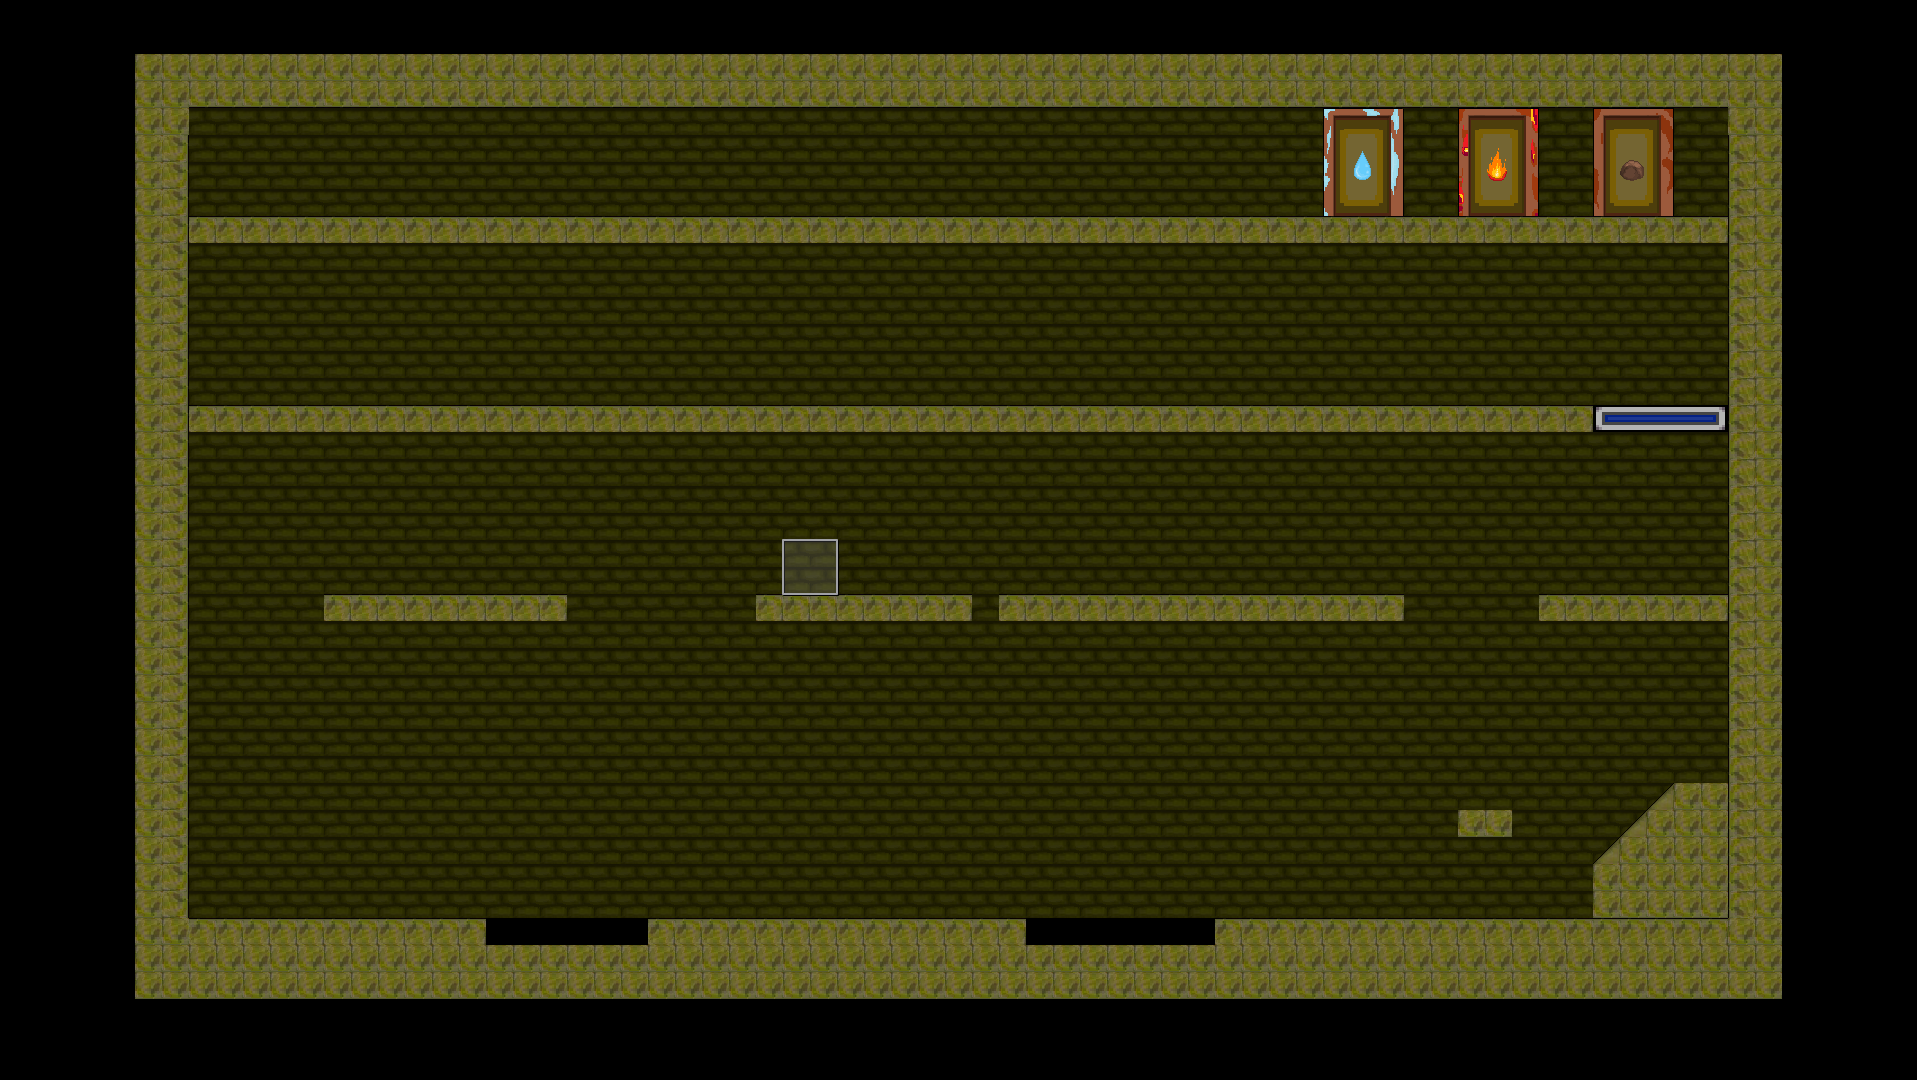
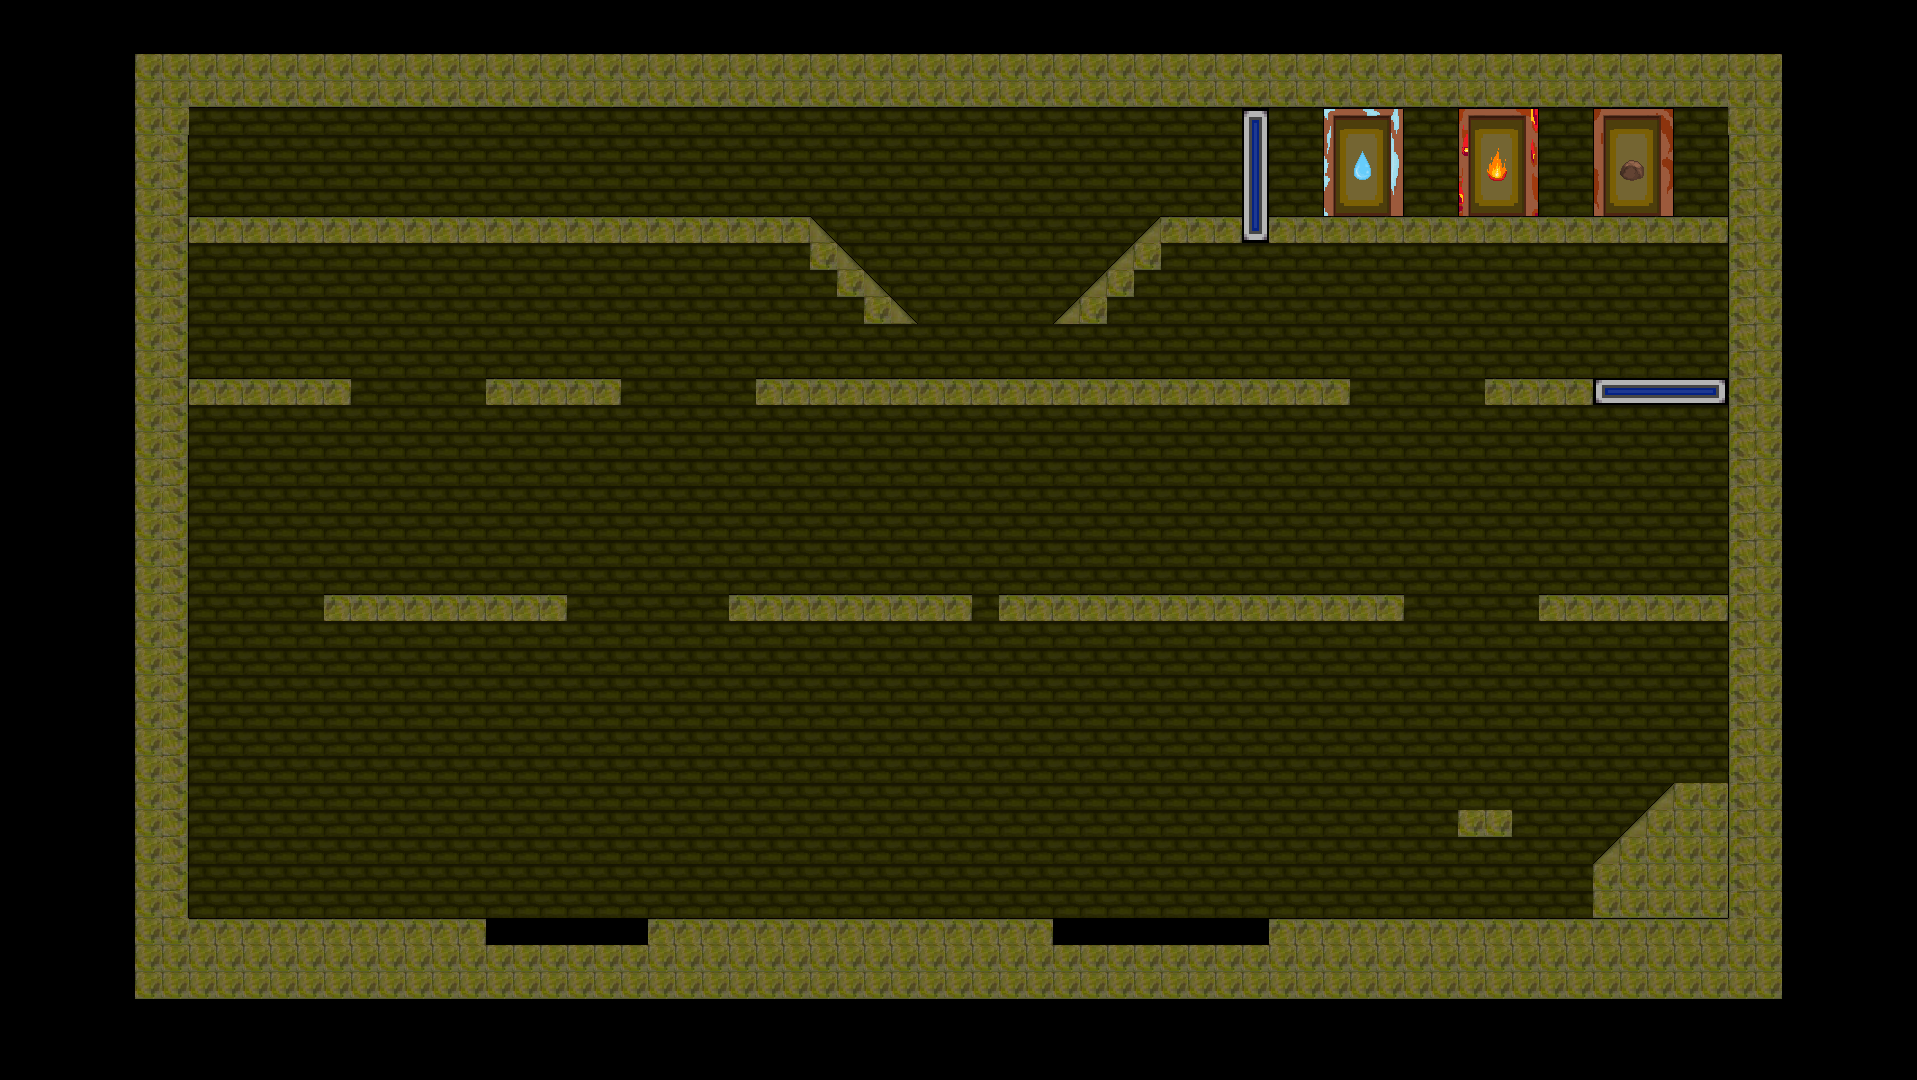
fase5

diff --git a/src/mapa/fases/fase5.c b/src/mapa/fases/fase5.c
@@ -528,7 +528,7 @@ bool Fase5(void) {
     }
 
     // Plataformas
-    typedef struct Platform Platform; Platform elev={0}, barraM={0};
+    typedef struct Platform Platform; Platform elev={0}, barraM={0}, elev2={0}, barra3={0};
     Texture2D barraElevTex = LoadTexture("assets/map/barras/amarelo.png");
     if (barraElevTex.id==0) barraElevTex = LoadTexture("assets/map/barras/branca.png");
     Texture2D barraMovTex = LoadTexture("assets/map/barras/barragorda.png");
@@ -543,9 +543,23 @@ bool Fase5(void) {
     if (coopBoxTex.id == 0) coopBoxTex = LoadTexture("assets/map/caixa/caixa.png");
     if (coopBoxTex.id == 0) { coopBoxTex = barraMovTex; coopBoxShared = true; }
     {
-        Rectangle r1[2], r2[2]; int c1 = ParseRectsFromGroup(tmx, "Barra_Elevador1_Colisao", r1, 2); int c2 = ParseRectsFromGroup(tmx, "Barra_Elevador1", r2, 2);
+        Rectangle r1[2], r2[2];
+        int c1 = ParseRectsFromGroup(tmx, "Barra_Elevador1_Colisao", r1, 2);
+        int c2 = ParseRectsFromGroup(tmx, "Barra_Elevador1", r2, 2);
         if (c1>0 && c2>0) PlatformInit(&elev, r1[0], r2[0], 2.5f);
-        c1 = ParseRectsFromGroup(tmx, "Barra1_Movel", r1, 2); c2 = ParseRectsFromGroup(tmx, "AreaMovimentoBarraMovel", r2, 2);
+        c1 = ParseRectsFromGroup(tmx, "Barra_Elevador2_Colisao", r1, 2);
+        c2 = ParseRectsFromGroup(tmx, "Barra_Elevador2", r2, 2);
+        if (c2==0) c2 = ParseRectsFromGroup(tmx, "Barrra_Elevador2", r2, 2);
+        if (c1>0 && c2>0) PlatformInit(&elev2, r1[0], r2[0], 2.5f);
+        c1 = ParseRectsFromGroup(tmx, "Barra3", r1, 2);
+        c2 = ParseRectsFromGroup(tmx, "Area_Barra3", r2, 2);
+        if (c1>0 && c2>0) {
+            PlatformInit(&barra3, r1[0], r2[0], 2.0f);
+            barra3.rect.y = barra3.area.y + barra3.area.height - barra3.rect.height;
+            barra3.startY = barra3.rect.y;
+        }
+        c1 = ParseRectsFromGroup(tmx, "Barra1_Movel", r1, 2);
+        c2 = ParseRectsFromGroup(tmx, "AreaMovimentoBarraMovel", r2, 2);
         if (c1>0 && c2>0) PlatformInit(&barraM, r1[0], r2[0], 2.0f);
     }
 
@@ -589,7 +603,9 @@ bool Fase5(void) {
     // Câmera
     Camera2D cam = {0}; cam.target=(Vector2){mapTex.width/2.0f,mapTex.height/2.0f}; cam.offset=(Vector2){GetScreenWidth()/2.0f,GetScreenHeight()/2.0f}; cam.zoom=1.0f;
 
-    bool completed=false; float elapsed=0.0f; bool debug=false; SetTargetFPS(60);
+    bool completed=false; float elapsed=0.0f; bool debug=false;
+    bool tempoButtonLatched=false; float tempoButtonTimer=0.0f; float barra3Timer=0.0f;
+    SetTargetFPS(60);
     while (!WindowShouldClose()) {
         float frameDt = GetFrameTime();
         elapsed += frameDt;
@@ -614,12 +630,52 @@ bool Fase5(void) {
         bool p1 = AnyButtonPressedWithToken(buttons, buttonCount, "botao1");
         bool p2 = AnyButtonPressedWithToken(buttons, buttonCount, "botao2");
         bool p3 = AnyButtonPressedWithToken(buttons, buttonCount, "botao3");
+        bool tempoPressed = AnyButtonPressedWithToken(buttons, buttonCount, "botao_tempo");
+        if (tempoPressed && !tempoButtonLatched) {
+            tempoButtonLatched = true;
+            tempoButtonTimer = 10.0f; // mantém elevador baixo por 10s
+            barra3Timer = 20.0f;
+        }
+        if (tempoButtonTimer > 0.0f) {
+            tempoButtonTimer -= frameDt;
+            if (tempoButtonTimer < 0.0f) tempoButtonTimer = 0.0f;
+        }
+        if (barra3Timer > 0.0f) {
+            barra3Timer -= frameDt;
+            if (barra3Timer < 0.0f) barra3Timer = 0.0f;
+        }
+        bool elev2Btn1 = AnyButtonPressedWithToken(buttons, buttonCount, "botao1_barra1_morvel_branco");
+        bool elev2Btn4 = AnyButtonPressedWithToken(buttons, buttonCount, "botao4_branco");
+        bool elev2Active = (tempoButtonTimer > 0.0f) || (elev2Btn1 && elev2Btn4);
+        if (tempoButtonLatched) {
+            for (int i = 0; i < buttonCount; ++i) {
+                if (strstr(buttons[i].nameLower, "botao_tempo")) buttons[i].pressed = true;
+            }
+        }
 
-        float elevPrevY = elev.rect.y, barraPrevY = barraM.rect.y;
+        float elevPrevY = elev.rect.y, elev2PrevY = elev2.rect.y, barraPrevY = barraM.rect.y, barra3PrevY = barra3.rect.y;
         if (elev.area.height>0 && elev.rect.height>0) {
             if (p1 && !p2 && !p3) { float base = elev.area.y + elev.area.height - elev.rect.height; elev.rect.y = moveTowards(elev.rect.y, base, elev.speed); }
             else { elev.rect.y = moveTowards(elev.rect.y, elev.startY, elev.speed); }
             float minY=elev.area.y, maxY=elev.area.y+elev.area.height-elev.rect.height; if (elev.rect.y<minY) elev.rect.y=minY; if (elev.rect.y>maxY) elev.rect.y=maxY;
+        }
+        if (elev2.area.height>0 && elev2.rect.height>0) {
+            float targetDown = elev2.area.y + elev2.area.height - elev2.rect.height;
+            float target = elev2Active ? targetDown : elev2.startY;
+            elev2.rect.y = moveTowards(elev2.rect.y, target, elev2.speed);
+            float minY=elev2.area.y, maxY=elev2.area.y+elev2.area.height-elev2.rect.height;
+            if (elev2.rect.y<minY) elev2.rect.y=minY;
+            if (elev2.rect.y>maxY) elev2.rect.y=maxY;
+        }
+        if (barra3.area.height>0 && barra3.rect.height>0) {
+            float targetOpen = barra3.area.y;
+            float targetClosed = barra3.startY;
+            bool active = barra3Timer > 0.0f;
+            float target = active ? targetOpen : targetClosed;
+            barra3.rect.y = moveTowards(barra3.rect.y, target, barra3.speed);
+            float minY=barra3.area.y, maxY=barra3.area.y+barra3.area.height-barra3.rect.height;
+            if (barra3.rect.y<minY) barra3.rect.y=minY;
+            if (barra3.rect.y>maxY) barra3.rect.y=maxY;
         }
         if (barraM.area.height>0 && barraM.rect.height>0) {
             int pressed=(p1?1:0)+(p2?1:0)+(p3?1:0);
@@ -627,7 +683,10 @@ bool Fase5(void) {
             else { barraM.rect.y = moveTowards(barraM.rect.y, barraM.startY, barraM.speed); }
             float minY=barraM.area.y, maxY=barraM.area.y+barraM.area.height-barraM.rect.height; if (barraM.rect.y<minY) barraM.rect.y=minY; if (barraM.rect.y>maxY) barraM.rect.y=maxY;
         }
-        float elevDY = elev.rect.y - elevPrevY, barraDY = barraM.rect.y - barraPrevY;
+        float elevDY = elev.rect.y - elevPrevY;
+        float elev2DY = elev2.rect.y - elev2PrevY;
+        float barra3DY = barra3.rect.y - barra3PrevY;
+        float barraDY = barraM.rect.y - barraPrevY;
 
         Rectangle ground = (Rectangle){0, mapTex.height, mapTex.width, 200};
         UpdatePlayer(&earthboy, ground, KEY_A, KEY_D, KEY_W);
@@ -667,10 +726,18 @@ bool Fase5(void) {
         for (int p=0;p<3;p++) {
             Player* pl=P[p];
             for (int i=0;i<nCol;i++) ResolvePlayerVsRect(pl, col[i].rect);
+            if (elev2.rect.width > 0 && elev2.rect.height > 0) ResolvePlayerVsRect(pl, elev2.rect);
+            if (barra3.rect.width > 0 && barra3.rect.height > 0) ResolvePlayerVsRect(pl, barra3.rect);
             if (barraM.rect.width > 0 && barraM.rect.height > 0) ResolvePlayerVsRect(pl, barraM.rect);
         }
 
-        for (int p=0;p<3;p++) { Player* pl=P[p]; if (elev.rect.width>0) HandlePlatformTop(pl, elev.rect, elevDY); if (barraM.rect.width>0) HandlePlatformTop(pl, barraM.rect, barraDY); }
+        for (int p=0;p<3;p++) {
+            Player* pl=P[p];
+            if (elev.rect.width>0) HandlePlatformTop(pl, elev.rect, elevDY);
+            if (elev2.rect.width>0) HandlePlatformTop(pl, elev2.rect, elev2DY);
+            if (barra3.rect.width>0) HandlePlatformTop(pl, barra3.rect, barra3DY);
+            if (barraM.rect.width>0) HandlePlatformTop(pl, barraM.rect, barraDY);
+        }
 
         // Ventiladores: 1 e 3 sempre aplicam, 2 só se somente b3
         for (int i=0;i<fans1Count;i++) { FanApply(&fans1[i], &earthboy); FanApply(&fans1[i], &fireboy); FanApply(&fans1[i], &watergirl); }
@@ -749,7 +816,9 @@ bool Fase5(void) {
         }
         // 3) plataformas
         if (elev.rect.width>0 && barraElevTex.id) DrawTexturePro(barraElevTex,(Rectangle){0,0,(float)barraElevTex.width,(float)barraElevTex.height},elev.rect,(Vector2){0,0},0.0f,WHITE);
+        if (elev2.rect.width>0 && barraElevTex.id) DrawTexturePro(barraElevTex,(Rectangle){0,0,(float)barraElevTex.width,(float)barraElevTex.height},elev2.rect,(Vector2){0,0},0.0f,WHITE);
         if (barraM.rect.width>0 && barraMovTex.id) DrawTexturePro(barraMovTex,(Rectangle){0,0,(float)barraMovTex.width,(float)barraMovTex.height},barraM.rect,(Vector2){0,0},0.0f,WHITE);
+        if (barra3.rect.width>0 && barraMovTex.id) DrawTexturePro(barraMovTex,(Rectangle){0,0,(float)barraMovTex.width,(float)barraMovTex.height},barra3.rect,(Vector2){0,0},0.0f,WHITE);
         for (int b=0; b<coopBoxCount; ++b) {
             if (coopBoxTex.id) DrawTexturePro(coopBoxTex,(Rectangle){0,0,(float)coopBoxTex.width,(float)coopBoxTex.height},coopBoxes[b].rect,(Vector2){0,0},0.0f,WHITE);
             else DrawRectangleRec(coopBoxes[b].rect, DARKBROWN);
@@ -761,7 +830,10 @@ bool Fase5(void) {
         // 6) debug
         if (debug) {
             for (int i=0;i<nCol;i++) DrawRectangleLinesEx(col[i].rect,1,Fade(GREEN,0.5f));
-            DrawRectangleLinesEx(elev.area,1,Fade(YELLOW,0.5f)); DrawRectangleLinesEx(barraM.area,1,Fade(ORANGE,0.5f));
+            DrawRectangleLinesEx(elev.area,1,Fade(YELLOW,0.5f));
+            if (elev2.area.width>0 && elev2.area.height>0) DrawRectangleLinesEx(elev2.area,1,Fade(YELLOW,0.5f));
+            if (barra3.area.width>0 && barra3.area.height>0) DrawRectangleLinesEx(barra3.area,1,Fade(GOLD,0.5f));
+            DrawRectangleLinesEx(barraM.area,1,Fade(ORANGE,0.5f));
             for (int i=0;i<fans1Count;i++) DrawRectangleLinesEx(fans1[i].rect,1,Fade(BLUE,0.5f));
             for (int i=0;i<fans3Count;i++) DrawRectangleLinesEx(fans3[i].rect,1,Fade(PURPLE,0.5f));
             if (haveVent2) DrawRectangleLinesEx(vent2.rect,1,Fade(SKYBLUE,0.5f));
